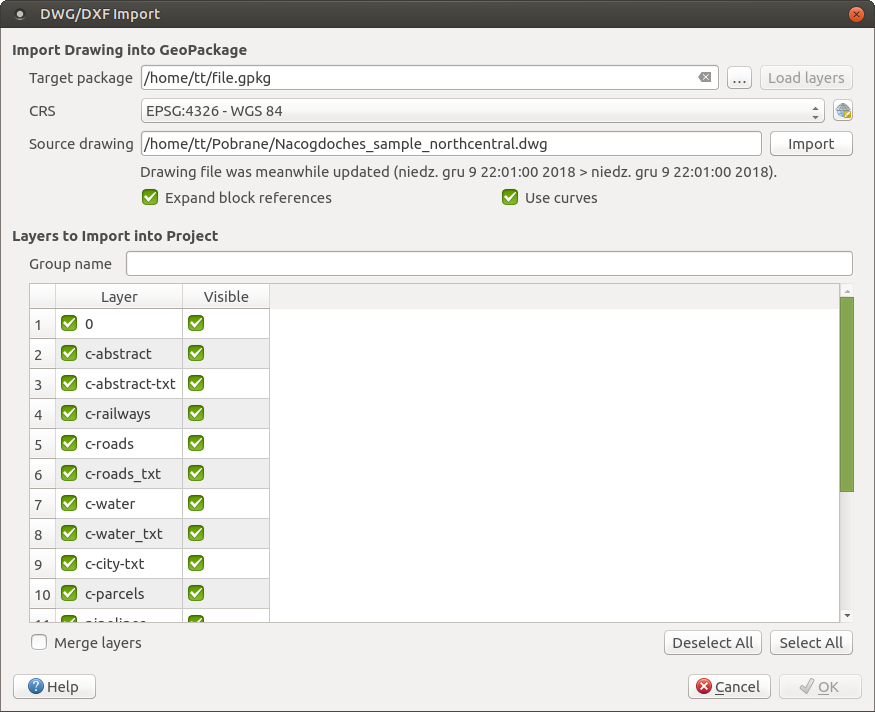
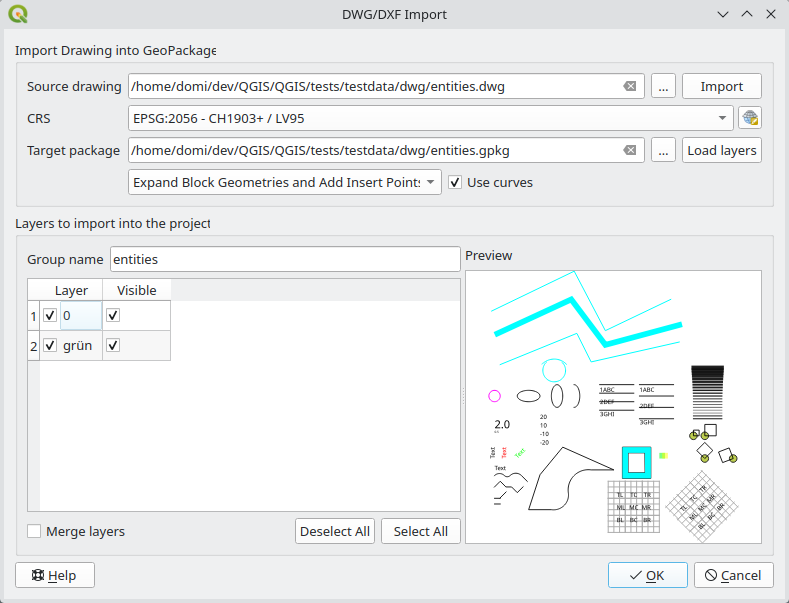
DWG/DXF Import dialog usability changes
Fix #8382

diff --git a/docs/user_manual/managing_data_source/opening_data.rst b/docs/user_manual/managing_data_source/opening_data.rst
@@ -651,16 +651,22 @@ tool which allows you to:
 In the :guilabel:`DWG/DXF Import` dialog, to import the drawing file
 contents:
 
-#. Input the location of the :guilabel:`Target package`, i.e. the new
-   GeoPackage file that will store the data.
-   If an existing file is provided, then it will be overwritten.
+#. Input the location of the :guilabel:`Source drawing`, i.e. the DWG/DXF drawing
+   file to import.
 #. Specify the coordinate reference system of the data in the drawing file.
-#. Check |checkbox| :guilabel:`Expand block references` to import the
-   blocks in the drawing file as normal elements.
+#. Input the location of the :guilabel:`Target package`, i.e. the GeoPackage file
+   that will store the data. If an existing file is provided, then it will be 
+   overwritten.
+#. Choose how to import ``blocks`` with the dedicated combobox:
+
+   * ``Expand Block Geometries``: import the blocks in the drawing file as normal elements.
+   * ``Expand Block Geometries and Add Insert Points``: import the blocks in the drawing file as normal elements and add the insertion point as a point layer.
+   * ``Add Only Insert Points``: add the blocks insertion point as a point layer.
+
 #. Check |checkbox| :guilabel:`Use curves` to promote the imported layers
    to a ``curved`` geometry type.
-#. Use the :guilabel:`Import` button to select the DWG/DXF file to use
-   (one per geopackage).
+#. Use the :guilabel:`Import` button import the drawing into the destination
+   GeoPackage file.
    The GeoPackage database will be automatically populated with the
    drawing file content.
    Depending on the size of the file, this can take some time.
@@ -671,7 +677,7 @@ populated with the list of layers from the imported file.
 There you can select which layers to add to the QGIS project:
 
 #. At the top, set a :guilabel:`Group name` to group the drawing files
-   in the project.
+   in the project. By default this is set to the filename of the source drawing file.
 #. Check layers to show: Each selected layer is added to an ad hoc group which
    contains vector layers for the point, line, label and area features of the
    drawing layer.
